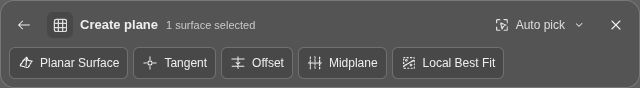
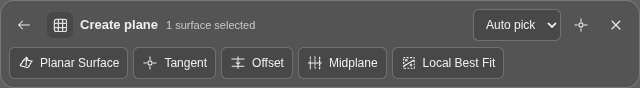
Expose the picking mode directly in the plane toolbar
Replace the nested picking-options panel with one native dropdown. Show model center and plane reference actions only in their relevant picking modes, preserving preview and back navigation.

Changed region(s): [[0.75, 0.2045, 0.9375, 0.3636], [0.75, 0.4545, 0.875, 0.4773], [0.75, 0.0909, 0.875, 0.1136]]

diff --git a/app.js b/app.js
@@ -5828,8 +5828,6 @@ const smartTitle = document.querySelector("#smartPlaneTitle");
 const smartTitleIcon = document.querySelector("#smartPlaneTitleIcon");
 const smartSelectionSummary = document.querySelector("#smartPlaneSelectionSummary");
 const smartBack = document.querySelector("#smartPlaneBack");
-const smartPickOptions = document.querySelector("#smartPickOptions");
-const smartPickToggle = document.querySelector("#smartPickOptionsToggle");
 const smartAdvanced = document.querySelector("#smartPlaneAdvanced");
 const smartAdvancedToggle = document.querySelector("#smartPlaneAdvancedToggle");
 const smartReferenceA = document.querySelector("#smartMethodReferenceA");
@@ -5889,8 +5887,6 @@ function selectSmartMethod(id, explicit = true) {
   smartChoosingMethod = false;
   smartAdvancedOpen = false;
   smartPreviewPaused = false;
-  smartPickOptions.hidden = true;
-  smartPickToggle.setAttribute("aria-expanded", "false");
   viewport.clearSmartHover();
   viewport.clearSnapPreview();
   updateSmartPlaneUi();
@@ -5951,8 +5947,6 @@ function renderSmartMethods(selected, references) {
   smartAdvancedToggle.hidden = !editing;
   smartAdvancedToggle.setAttribute("aria-expanded", String(editing && smartAdvancedOpen));
   smartAdvanced.hidden = !editing || !smartAdvancedOpen;
-  document.querySelector("#smartPickSummary").textContent = smartFilter.value === "auto"
-    ? "Auto pick" : smartFilter.selectedOptions[0].textContent;
   const offsetSlot = document.querySelector(selected?.id === "offset" ? "#smartPrimaryOffsetSlot" : "#smartExtraOffsetSlot");
   const offsetField = document.querySelector("#smartOffsetField");
   if (offsetField.parentElement !== offsetSlot) offsetSlot.append(offsetField);
@@ -6044,8 +6038,6 @@ function updateSmartPlaneUi() {
   if (!enabled || !viewport) {
     smartChoosingMethod = false;
     smartAdvancedOpen = false;
-    smartPickOptions.hidden = true;
-    smartPickToggle.setAttribute("aria-expanded", "false");
     if (viewport) { viewport.smartPickIntent = null; viewport.setPlanePreview(null); }
     return;
   }
@@ -6106,7 +6098,7 @@ function updateSmartPlaneUi() {
   const selected = smartCandidates.find((candidate) => candidate.id === smartSelectedMethod);
   const { choosing, editing } = renderSmartMethods(selected, references);
   const parameters = selected?.parameters || [];
-  document.querySelector("#smartReferenceField").hidden = smartAddReference.hidden = smartFilter.value !== "plane";
+  document.querySelector("#smartPlanePickReference").hidden = smartFilter.value !== "plane";
   document.querySelector("#smartMethodReferenceAField").hidden = !parameters.includes("referenceA");
   document.querySelector("#smartMethodReferenceBField").hidden = !parameters.includes("referenceB");
   document.querySelector("#smartAngleField").hidden = !parameters.includes("angle");
@@ -6165,7 +6157,7 @@ function updateSmartPlaneUi() {
   const toolbarStatus = document.querySelector("#smartToolbarStatus");
   toolbarStatus.dataset.state = !choosing && selected && !smartPlaneDefinition ? "error" : smartPlaneDefinition ? "ready" : "waiting";
   toolbarStatus.textContent = choosing ? "Choose a construction to preview a plane."
-    : !references.length ? "Click the model, or use picking options."
+    : !references.length ? "Click the model, or choose a picking mode."
       : smartPlaneDefinition ? (selected.id === "angle"
         ? "Preview ready · Plane angle " + smartPlaneDefinition.angleToReference.toFixed(3) + "°"
         : "Preview only · Ready to create.")
@@ -6179,8 +6171,6 @@ function navigateSmartPlaneBack() {
   const fromEditor = smartToolbar.dataset.step === "configure";
   smartChoosingMethod = true;
   smartAdvancedOpen = false;
-  smartPickOptions.hidden = true;
-  smartPickToggle.setAttribute("aria-expanded", "false");
   viewport.clearSmartHover();
   viewport.clearSnapPreview();
   if (fromEditor) {
@@ -6193,7 +6183,7 @@ function navigateSmartPlaneBack() {
     // Stay in the chooser after removing a reference, even when the remaining
     // geometry has a unique exact construction. One press removes one pick.
     viewport.undoSmartPick();
-    (viewport.selectionReferences.length ? smartBack : smartPickToggle).focus({ preventScroll: true });
+    (viewport.selectionReferences.length ? smartBack : smartFilter).focus({ preventScroll: true });
   }
 }
 
@@ -6202,11 +6192,7 @@ function handleSmartPlaneEscape(event) {
   // Let Escape dismiss a native select popup before navigating the tool.
   if (event.target instanceof HTMLSelectElement && CSS.supports("selector(select:open)") && event.target.matches(":open")) return true;
   if (event.repeat) { event.preventDefault(); return true; }
-  if (!smartPickOptions.hidden) {
-    smartPickOptions.hidden = true;
-    smartPickToggle.setAttribute("aria-expanded", "false");
-    smartPickToggle.focus({ preventScroll: true });
-  } else if (smartAdvancedOpen) {
+  if (smartAdvancedOpen) {
     smartAdvancedOpen = false;
     updateSmartPlaneUi();
     smartAdvancedToggle.focus({ preventScroll: true });
@@ -6218,32 +6204,17 @@ function handleSmartPlaneEscape(event) {
 }
 
 smartBack.addEventListener("click", navigateSmartPlaneBack);
-smartPickToggle.addEventListener("click", () => {
-  smartPickOptions.hidden = !smartPickOptions.hidden;
-  smartPickToggle.setAttribute("aria-expanded", String(!smartPickOptions.hidden));
-  smartAdvancedOpen = false;
-  updateSmartPlaneUi();
-});
 smartAdvancedToggle.addEventListener("click", () => {
   smartAdvancedOpen = !smartAdvancedOpen;
-  smartPickOptions.hidden = true;
-  smartPickToggle.setAttribute("aria-expanded", "false");
   updateSmartPlaneUi();
 });
 smartFilter.addEventListener("change", () => {
   viewport.smartPickFilter = smartFilter.value;
   viewport.clearSmartHover();
   viewport.clearSnapPreview();
-  if (smartFilter.value !== "plane") {
-    smartPickOptions.hidden = true;
-    smartPickToggle.setAttribute("aria-expanded", "false");
-    smartPickToggle.focus({ preventScroll: true });
-  }
   updateSmartPlaneUi();
 });
 smartAddReference.addEventListener("click", () => {
-  smartPickOptions.hidden = true;
-  smartPickToggle.setAttribute("aria-expanded", "false");
   viewport.addConstructionReference(viewport.getSmartPlaneReference(smartReferencePlane.value));
 });
 for (const [slot, select] of [["A", smartReferenceA], ["B", smartReferenceB]]) {
@@ -6266,14 +6237,12 @@ planeNameInput.addEventListener("input", () => {
   }
 });
 smartModelCenter.addEventListener("click", () => {
-  smartPickOptions.hidden = true;
-  smartPickToggle.setAttribute("aria-expanded", "false");
   viewport.selectModelCenterReference();
 });
 smartReversePath.addEventListener("click", () => { smartPathReversed = !smartPathReversed; smartPreviewPaused = false; updateSmartPlaneUi(); });
 smartClear.addEventListener("click", () => {
   viewport.clearConstructionSelection();
-  smartPickToggle.focus({ preventScroll: true });
+  smartFilter.focus({ preventScroll: true });
 });
 smartFlip.addEventListener("click", () => { smartPlaneFlipped = !smartPlaneFlipped; updateSmartPlaneUi(); });
 for (const input of [smartOffset, smartAngle, smartPathPosition]) input.addEventListener("input", () => {
@@ -6282,7 +6251,7 @@ for (const input of [smartOffset, smartAngle, smartPathPosition]) input.addEvent
 });
 smartSave.addEventListener("click", () => {
   createPlaneButton.click();
-  smartPickToggle.focus({ preventScroll: true });
+  smartFilter.focus({ preventScroll: true });
 });
 new ResizeObserver(([entry]) => {
   workspace.style.setProperty("--plane-toolbar-height", Math.ceil(entry.target.getBoundingClientRect().height) + "px");

diff --git a/index.html b/index.html
@@ -1075,16 +1075,15 @@
                 <div class="smart-plane-heading-copy"><strong id="smartPlaneTitle">Create plane</strong><span id="smartPlaneSelectionSummary">Select geometry to begin</span></div>
               </div>
               <div class="smart-plane-actions">
-                <button id="smartPickOptionsToggle" class="smart-plane-pick-toggle" type="button" aria-label="Picking options" aria-expanded="false" aria-controls="smartPickOptions"><svg class="icon" aria-hidden="true"><use href="#icon-select"></use></svg><span id="smartPickSummary">Auto pick</span><svg class="icon smart-plane-chevron" aria-hidden="true"><use href="#icon-chevron"></use></svg></button>
+                <select id="smartPickFilter" aria-label="Pick geometry" title="Pick geometry"><option value="auto">Auto pick</option><option value="point">Points</option><option value="edge">Edges</option><option value="surface">Surfaces</option><option value="plane">Planes</option></select>
+                <button id="smartModelCenter" class="smart-plane-icon-button" type="button" aria-label="Use model center as a point" title="Use model center as a point"><svg class="icon" aria-hidden="true"><use href="#choice-point"></use></svg></button>
                 <button id="smartPlaneClear" class="smart-plane-icon-button" type="button" aria-label="Clear picked geometry" title="Clear picked geometry" hidden><svg class="icon" aria-hidden="true"><use href="#icon-close"></use></svg></button>
                 <button id="smartPlaneSave" type="button" hidden><svg class="icon" aria-hidden="true"><use href="#icon-check"></use></svg>Create plane</button>
               </div>
             </div>
-            <div class="smart-plane-pick-options" id="smartPickOptions" role="group" aria-label="Picking options" hidden>
-              <label>Pick geometry<select id="smartPickFilter" aria-label="Pick geometry"><option value="auto">Auto</option><option value="point">Points</option><option value="edge">Edges</option><option value="surface">Surfaces</option><option value="plane">Planes</option></select></label>
-              <label id="smartReferenceField" hidden>Add reference<select id="smartReferencePlane" aria-label="Reference plane to add"></select></label>
-              <button id="smartAddReference" type="button" hidden><svg class="icon" aria-hidden="true"><use href="#icon-plus"></use></svg>Add plane</button>
-              <button id="smartModelCenter" type="button"><svg class="icon" aria-hidden="true"><use href="#choice-point"></use></svg>Model center</button>
+            <div class="smart-plane-pick-reference" id="smartPlanePickReference" role="group" aria-label="Add a reference plane" hidden>
+              <label id="smartReferenceField">Add reference<select id="smartReferencePlane" aria-label="Reference plane to add"></select></label>
+              <button id="smartAddReference" type="button"><svg class="icon" aria-hidden="true"><use href="#icon-plus"></use></svg>Add plane</button>
             </div>
             <div class="smart-plane-method-row" id="smartPlaneMethodRow" hidden>
               <p class="smart-plane-section-label" id="smartPlaneChoiceLabel">Choose a construction</p>

diff --git a/workspace-theme.css b/workspace-theme.css
@@ -1392,18 +1392,17 @@ input:checked + .toggle-track,
 .smart-plane-toolbar button:disabled { opacity: .45; cursor: not-allowed; }
 .smart-plane-toolbar button[aria-pressed="true"] { background: #858585; color: #171717; border-color: #aaaaaa; }
 .smart-plane-toolbar .smart-plane-icon-button { width: 30px; padding: 0; background: transparent; border-color: transparent; }
-.smart-plane-toolbar .smart-plane-pick-toggle { background: transparent; border-color: transparent; color: #dddddd; }
-.smart-plane-pick-toggle .smart-plane-chevron { width: 11px; height: 11px; }
-.smart-plane-pick-toggle[aria-expanded="true"] .smart-plane-chevron { transform: rotate(180deg); }
 .smart-plane-toolbar #smartPlaneSave:not(:disabled) { background: #bcbcbc; border-color: #cccccc; color: #202020; }
 .smart-plane-toolbar #smartPlaneSave:hover:not(:disabled) { background: #cccccc; }
 .smart-plane-toolbar #smartPlaneSave { font-weight: 600; white-space: nowrap; }
 .smart-plane-toolbar label { display: flex; flex-direction: column; align-items: stretch; gap: 4px; min-width: 0; color: #dddddd; font-size: 11px; line-height: 1.25; }
 .smart-plane-toolbar :is(input, select) { min-width: 0; width: 100%; background: #484848; border-color: #727272; }
+.smart-plane-toolbar #smartPickFilter { width: auto; max-width: 130px; }
 .smart-plane-toolbar input[type="number"] { font-variant-numeric: tabular-nums; }
-.smart-plane-pick-options, .smart-plane-parameters, .smart-plane-advanced { display: flex; flex-wrap: wrap; align-items: flex-end; gap: 10px; min-width: 0; }
-.smart-plane-pick-options, .smart-plane-advanced { padding: 12px; border-radius: 9px; background: #4e4d4d; }
-.smart-plane-pick-options label { flex: 1 1 130px; }
+.smart-plane-pick-reference, .smart-plane-parameters, .smart-plane-advanced { display: flex; flex-wrap: wrap; align-items: flex-end; gap: 10px; min-width: 0; }
+.smart-plane-advanced { padding: 12px; border-radius: 9px; background: #4e4d4d; }
+.smart-plane-pick-reference label { flex-direction: row; align-items: center; white-space: nowrap; }
+.smart-plane-pick-reference select { flex: 1; }
 #smartReferenceField { flex: 2 1 190px; }
 .smart-plane-method-row { min-width: 0; }
 .smart-plane-section-label, .smart-plane-method-copy small {
@@ -1452,7 +1451,7 @@ input:checked + .toggle-track,
   .smart-plane-header { display: grid; grid-template-columns: auto minmax(0, 1fr); gap: 6px; }
   .smart-plane-header:has(#smartPlaneBack[hidden]) .smart-plane-heading { grid-column: 1 / -1; }
   .smart-plane-actions { grid-column: 1 / -1; }
-  .smart-plane-pick-toggle { margin-right: auto; }
+  #smartPickFilter { margin-right: auto; }
   #smartPlaneSave { margin-left: auto; }
   .smart-plane-parameters label { flex-direction: column; align-items: stretch; white-space: normal; }
   .smart-plane-parameters .smart-plane-reference-field { flex-basis: 155px; }

diff --git a/tests/plane-toolbar.playwright.py b/tests/plane-toolbar.playwright.py
@@ -77,7 +77,9 @@ def run(base_url):
                 assert page.locator("#smartPlaneMethodRow").is_visible()
                 # The chooser should leave the model exposed, including the
                 # five-method surface selection that previously filled a panel.
-                assert page.locator(".view-toolbar").bounding_box()["height"] <= 120
+                # Planes mode adds its contextual reference selector below the header.
+                height_limit = 150 if page.locator("#smartPickFilter").input_value() == "plane" else 120
+                assert page.locator(".view-toolbar").bounding_box()["height"] <= height_limit
                 assert page.locator("[data-smart-method]:visible").count() == len(actual)
                 assert page.locator(".view-toolbar").evaluate("e => e.scrollWidth <= e.clientWidth + 1")
                 for method in actual:
@@ -109,8 +111,6 @@ def run(base_url):
                 assert page.locator("#smartPlaneBack").get_attribute("aria-label") == "Back to methods"
 
             def pick_filter(value):
-                if page.locator("#smartPickOptions").is_hidden():
-                    page.locator("#smartPickOptionsToggle").click()
                 page.locator("#smartPickFilter").select_option(value)
 
             def set_offset(value):
@@ -180,7 +180,12 @@ def run(base_url):
 
             # A lone point does not expose unrelated construction choices. The
             # second point makes path and reference-plane constructions relevant.
-            page.locator("#smartPickOptionsToggle").click()
+            assert page.locator("#smartPickOptionsToggle").count() == 0
+            assert page.locator("#smartPickOptions").count() == 0
+            for mode in ["point", "edge", "surface", "plane", "auto"]:
+                pick_filter(mode)
+                assert page.locator("#smartModelCenter").is_visible() == (mode in ["auto", "point"])
+                assert page.locator("#smartPlanePickReference").is_visible() == (mode == "plane")
             page.locator("#smartModelCenter").click()
             assert method_ids() == ["local-best-fit"], method_ids()
             page.locator("#smartPlaneClear").click()
@@ -429,9 +434,13 @@ def run(base_url):
             assert page.locator("#smartPlaneToolbar").get_attribute("data-method") == "angle"
             assert state()["references"] == ["edge"]
             assert_ready()
-            page.locator("#smartPickOptionsToggle").click()
+            page.locator("#smartPickFilter").focus()
+            page.keyboard.press("Space")
+            page.wait_for_function('document.querySelector("#smartPickFilter").matches(":open")')
             page.keyboard.press("Escape")
-            assert page.locator("#smartPickOptions").is_hidden()
+            assert not page.locator("#smartPickFilter").evaluate('e => e.matches(":open")')
+            assert page.locator("#smartPlaneToolbar").get_attribute("data-method") == "angle"
+            assert state()["references"] == ["edge"]
             assert_ready()
             page.evaluate("document.activeElement.blur()")
             page.keyboard.press("Escape")
@@ -464,7 +473,7 @@ def run(base_url):
             page.keyboard.down("Escape")
             assert page.locator("#planeWorkbench").is_visible()
             page.keyboard.up("Escape")
-            assert page.locator("#smartPickOptionsToggle").evaluate("e => e === document.activeElement")
+            assert page.locator("#smartPickFilter").evaluate("e => e === document.activeElement")
             page.keyboard.press("Escape")
             assert page.locator(".view-navigation").is_visible()
             assert not state()["preview"]
@@ -489,9 +498,10 @@ def run(base_url):
                 touch_page.locator("#planeButton").tap()
                 if touch_page.locator("#mobilePanelToggle").is_visible():
                     touch_page.locator("#mobilePanelToggle").tap()
-                touch_page.locator("#smartPickOptionsToggle").tap()
                 touch_page.locator("#smartPickFilter").select_option("point")
-                assert touch_page.locator("#smartPickOptions").is_hidden()
+                assert touch_page.locator("#smartPickOptionsToggle").count() == 0
+                assert touch_page.locator("#smartModelCenter").is_visible()
+                assert touch_page.locator("#smartPlanePickReference").is_hidden()
                 if width == 768:
                     taps = touch_page.evaluate("""() => {
                         const viewport = window.__workflowTest.viewport;

diff --git a/README.md b/README.md
@@ -134,7 +134,7 @@ Construction methods appear progressively from the picked geometry. No methods o
 
 Choosing a method replaces the choices with the selected method and only its relevant parameter fields. One **back arrow** handles navigation: from parameters it returns to the method chooser without changing geometry or entered values; from the chooser it removes the last picked point, edge, surface or reference plane. **Clear** removes the entire selection. Returning to the chooser removes the preview and releases the method's Auto-picking intent. A unique inferred method stays in the chooser after going back, rather than opening itself again. Reselecting the method restores its parameter values.
 
-Escape dismisses an open picking/options panel first, then follows the same hierarchy even when focus is outside the toolbar. At an empty selection, Escape closes the tool. Holding Escape does not repeat navigation. Native select popups can be dismissed before navigating the tool. Initial unique exact constructions are still previewed automatically; ambiguous choices require selecting a method. Invalid geometry disables Create with an explanation, and exact construction never silently falls back to Best Fit. All ten Manual constructions remain supported through the appropriate selections; the Manual tab retains its complete method chooser.
+Escape dismisses native dropdowns and More options first, then follows the same hierarchy even when focus is outside the toolbar. At an empty selection, Escape closes the tool. Holding Escape does not repeat navigation. Native select popups can be dismissed before navigating the tool. Initial unique exact constructions are still previewed automatically; ambiguous choices require selecting a method. Invalid geometry disables Create with an explanation, and exact construction never silently falls back to Best Fit. All ten Manual constructions remain supported through the appropriate selections; the Manual tab retains its complete method chooser.
 
 ![Choose a matching plane construction](assets/screenshots/plane-toolbar-choices.png)
 
@@ -155,9 +155,9 @@ Escape dismisses an open picking/options panel first, then follows the same hier
 
 **At Angle example:** pick an edge, choose At Angle, choose the reference plane and enter the angle in the bottom toolbar. No plane pick or switch to Manual is required. A suggested origin plane is chosen to avoid an axis normal to it; a picked flat surface takes priority. Reference selectors include origin planes, saved construction planes, and currently picked flat surfaces. Offset starts from a picked surface or reference plane; the reference selector can then change its source. Midplane accepts picked faces, selected planes, or a combination.
 
-Auto picking follows an explicitly selected method: surface methods select surfaces, point methods select points, and axis methods accept edges or points. Before a method is chosen, Auto continues selecting surfaces after the first surface so opposite faces can directly produce a Midplane. Auto can also select visible construction/origin planes where the pointer misses the model. Open **Auto pick** (or the current picking filter) and choose **Planes** to select planes through the model, or choose an origin or saved plane and press **Add plane**. The Points, Edges, and Surfaces filters override automatic picking. Point clouds support points, flat-area fitting, and local best fit; they do not supply tangent normals. **Model center**, enabled object snaps, and grid snapping in Points mode remain available. Up to 32 references are supported.
+Auto picking follows an explicitly selected method: surface methods select surfaces, point methods select points, and axis methods accept edges or points. Before a method is chosen, Auto continues selecting surfaces after the first surface so opposite faces can directly produce a Midplane. Auto can also select visible construction/origin planes where the pointer misses the model. Choose **Planes** directly from the **Auto pick** dropdown to select planes through the model, or choose an origin or saved plane and press **Add plane**. The Points, Edges, and Surfaces filters override automatic picking. Point clouds support points, flat-area fitting, and local best fit; they do not supply tangent normals. **Model center**, enabled object snaps, and grid snapping in Points mode remain available. Up to 32 references are supported.
 
-Additional inferred constructions include Edge + Point, Parallel through Point, and Local Best Fit. The primary fields belong to the selected construction: reference planes, angle, path position/direction, or Offset distance. **More options** contains the optional name, Flip normal, and an additional signed offset in the indicated world/model space. Picking filters and Model center are grouped under the picking-options button. Controls wrap within the toolbar on narrow screens; the header stays visible when an expanded panel needs to scroll on a short screen.
+Additional inferred constructions include Edge + Point, Parallel through Point, and Local Best Fit. The primary fields belong to the selected construction: reference planes, angle, path position/direction, or Offset distance. **More options** contains the optional name, Flip normal, and an additional signed offset in the indicated world/model space. The picking filter is a single dropdown in the toolbar header. Model center appears beside it in Auto and Points modes; Planes mode reveals the reference selector and Add plane action. Controls wrap within the toolbar on narrow screens; the header stays visible when an expanded panel needs to scroll on a short screen.
 
 Offset, At Angle, Perpendicular, and Parallel through Point retain the reference plane's coordinate space. Midplane uses the shared reference space, or world space for mixed references. World constructions stay fixed when the model moves, and offsets from world references remain exact world distances after nonuniform scaling. Other constructions follow the model.
 
